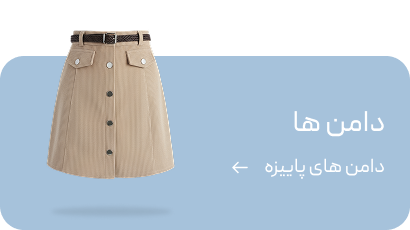
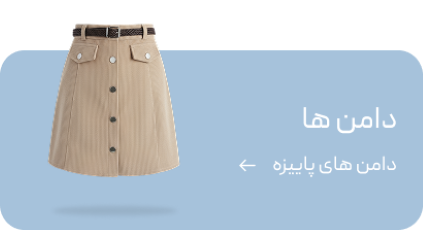
add new slides on mobile

diff --git a/frontend/src/components/Hero/mobileHero.tsx b/frontend/src/components/Hero/mobileHero.tsx
@@ -91,7 +91,7 @@ export default function MobileHero({ layout, playKey = 0 }: Props) {
         </div>
 
         <div className="flex gap-2 md:w-1/2 md:flex-col md:gap-4">
-          <div className="relative w-1/2 overflow-hidden md:w-full [backface-visibility:hidden] [transform:translateZ(0)]">
+          <div className="relative w-1/2 overflow-hidden rounded-lg md:w-full aspect-square md:aspect-auto [backface-visibility:hidden] [transform:translateZ(0)]">
             <AnimatePresence mode="wait" initial={false}>
               <motion.div
                 key={`small-left-${playKey}`}
@@ -105,12 +105,12 @@ export default function MobileHero({ layout, playKey = 0 }: Props) {
                 <BannerImage {...layout.secondaryTop} />
               </motion.div>
             </AnimatePresence>
-            <div className="invisible">
+            <div className="invisible md:relative md:visible opacity-0 md:opacity-100">
               <BannerImage {...layout.secondaryTop} />
             </div>
           </div>
 
-          <div className="relative w-1/2 overflow-hidden md:w-full [backface-visibility:hidden] [transform:translateZ(0)]">
+          <div className="relative w-1/2 overflow-hidden rounded-lg md:w-full aspect-square md:aspect-auto [backface-visibility:hidden] [transform:translateZ(0)]">
             <AnimatePresence mode="wait" initial={false}>
               <motion.div
                 key={`small-right-${playKey}`}
@@ -124,7 +124,7 @@ export default function MobileHero({ layout, playKey = 0 }: Props) {
                 <BannerImage {...layout.secondaryBottom} />
               </motion.div>
             </AnimatePresence>
-            <div className="invisible">
+            <div className="invisible md:relative md:visible opacity-0 md:opacity-100">
               <BannerImage {...layout.secondaryBottom} />
             </div>
           </div>

diff --git a/frontend/src/components/Hero/config/slides/mobile/slide4.ts b/frontend/src/components/Hero/config/slides/mobile/slide4.ts
@@ -1,0 +1,26 @@
+import { MobileSlideBuilder } from "../../slideFactory";
+
+export const slide4 = new MobileSlideBuilder()
+  .heroDesktop({
+    src: "/images/side2.png",
+  })
+  .heroMobile({
+    src: "/images/hero2.png",
+  })
+  .secondaryPrimary({
+    src: "/images/side2.png",
+    href: "https://infinitycolor.co/shop/skirt/",
+  })
+  .secondaryTop({
+    src: "/images/bottomright2.png",
+    href: "https://infinitycolor.co/shop/پلیور-و-بافت/",
+    className: "h-full w-full rounded-lg object-contain md:object-cover",
+    objectPosition: "center center",
+  })
+  .secondaryBottom({
+    src: "/images/bottomleft2.png",
+    className: "h-full w-full rounded-lg object-contain md:object-cover",
+    objectPosition: "center center",
+    href: "https://infinitycolor.co/shop/skirt/",
+  })
+  .build();

diff --git a/frontend/src/components/Hero/config/slides/mobile/slide5.ts b/frontend/src/components/Hero/config/slides/mobile/slide5.ts
@@ -1,0 +1,26 @@
+import { MobileSlideBuilder } from "../../slideFactory";
+
+export const slide5 = new MobileSlideBuilder()
+  .heroDesktop({
+    src: "/images/side3.png",
+  })
+  .heroMobile({
+    src: "/images/hero1.png",
+  })
+  .secondaryPrimary({
+    src: "/images/side3.png",
+    href: "https://infinitycolor.co/shop/skirt/",
+  })
+  .secondaryTop({
+    src: "/images/bottomleft3.png",
+    href: "https://infinitycolor.co/shop/پلیور-و-بافت/",
+    className: "h-full w-full rounded-lg object-contain md:object-cover",
+    objectPosition: "center center",
+  })
+  .secondaryBottom({
+    src: "/images/bottomright3.png",
+    className: "h-full w-full rounded-lg object-contain md:object-cover",
+    objectPosition: "center center",
+    href: "https://infinitycolor.co/shop/skirt/",
+  })
+  .build();

diff --git a/frontend/src/constants/api.ts b/frontend/src/constants/api.ts
@@ -4,7 +4,7 @@
  */
 
 // Base URLs
-const apiBaseUrl = process.env.NEXT_PUBLIC_API_BASE_URL || "https://api.infinity,rgbgroup.ir/api";
+const apiBaseUrl = process.env.NEXT_PUBLIC_API_BASE_URL || "https://api.infinity.rgbgroup.ir/api";
 export const API_BASE_URL = apiBaseUrl;
 
 const strapiToken =
@@ -12,7 +12,7 @@ const strapiToken =
   "STRAPI_API_TOKEN";
 export const STRAPI_TOKEN = strapiToken;
 
-const imageBaseUrl = process.env.NEXT_PUBLIC_IMAGE_BASE_URL || "https://api.infinity,rgbgroup.ir";
+const imageBaseUrl = process.env.NEXT_PUBLIC_IMAGE_BASE_URL || "https://api.infinity.rgbgroup.ir";
 
 export const IMAGE_BASE_URL = imageBaseUrl;
 // API Versions

diff --git a/frontend/src/components/Hero/config/mobileSlides.ts b/frontend/src/components/Hero/config/mobileSlides.ts
@@ -5,8 +5,4 @@ import * as slides from "./slides/mobile";
  * Default mobile slides configuration
  * Add or remove slides by importing from ./slides/mobile
  */
-export const mobileSlides: MobileLayout[] = [
-  slides.slide1,
-  slides.slide2,
-  slides.slide3,
-];
+export const mobileSlides: MobileLayout[] = [slides.slide4, slides.slide5];

diff --git a/frontend/src/components/Hero/config/slides/mobile/index.ts b/frontend/src/components/Hero/config/slides/mobile/index.ts
@@ -1,3 +1,2 @@
-export { slide1 } from "./slide1";
-export { slide2 } from "./slide2";
-export { slide3 } from "./slide3";
+export { slide4 } from "./slide4";
+export { slide5 } from "./slide5";
